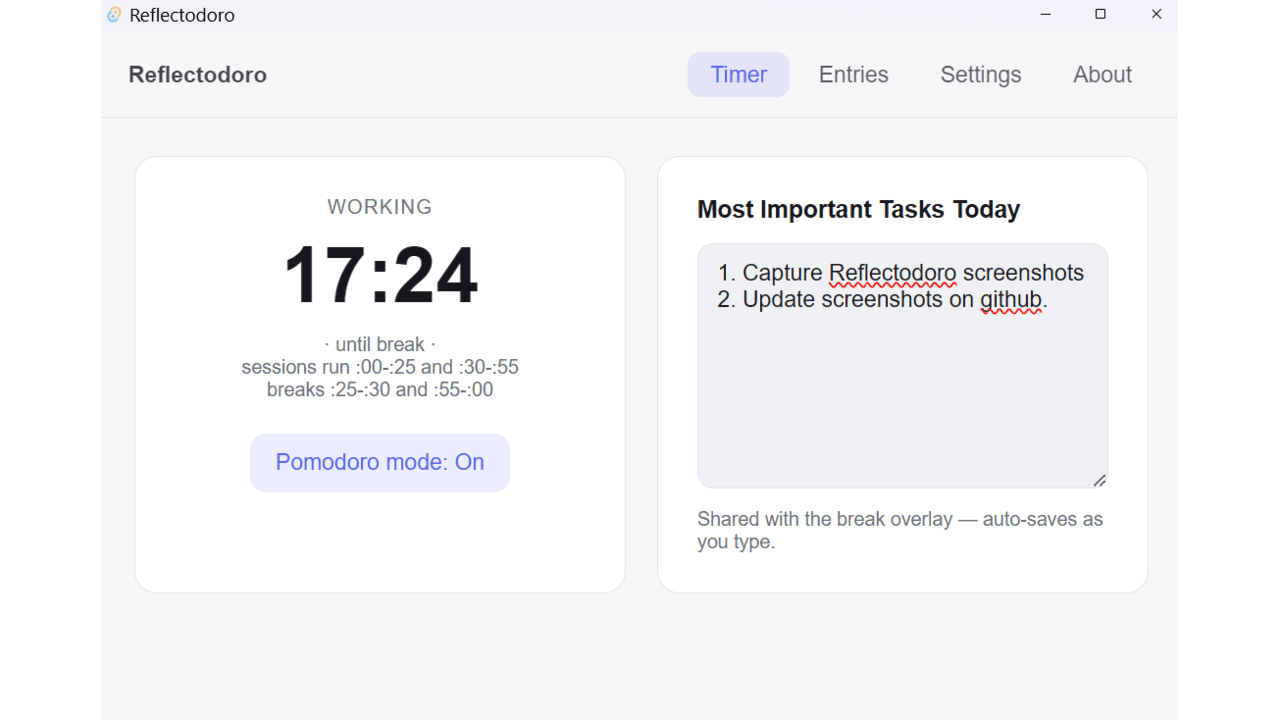
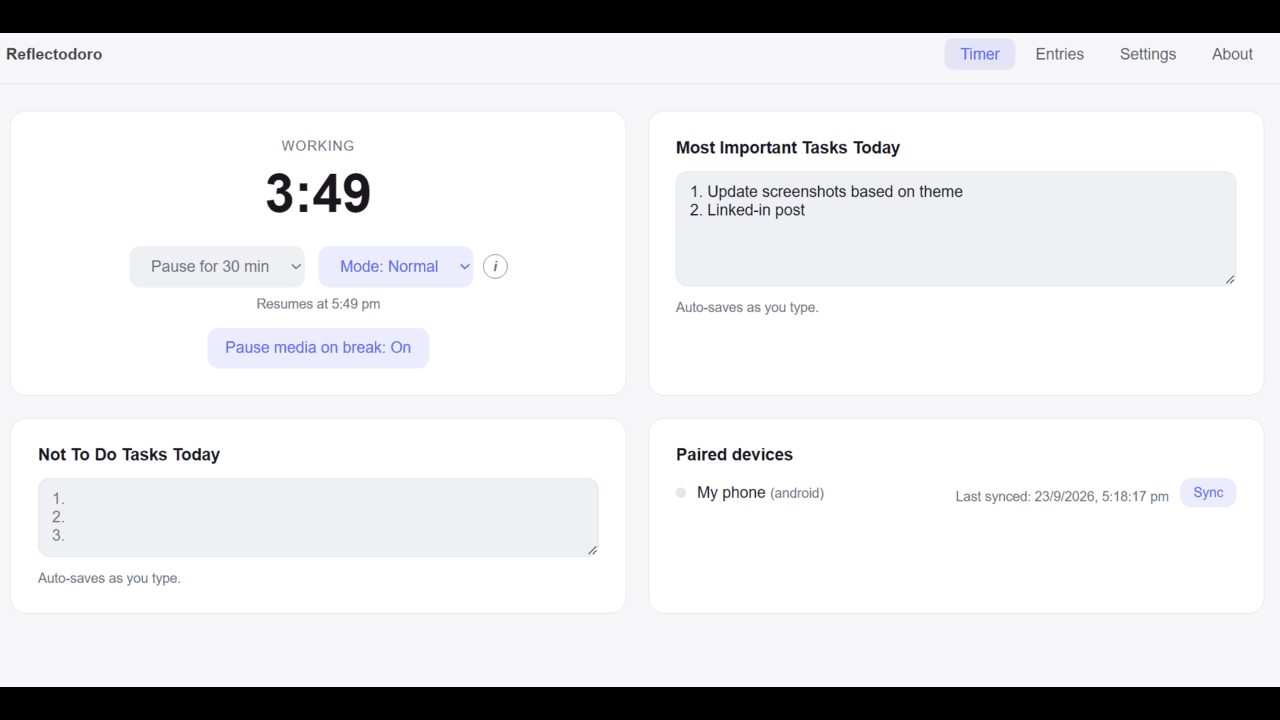
add ss and update as per theme

diff --git a/docs/index.html b/docs/index.html
@@ -970,16 +970,16 @@
             <div class="frame">
               <div class="carousel-track" id="carouselTrack" tabindex="0" role="group" aria-label="Screenshots carousel">
                 <div class="carousel-slide" data-caption="Main window &mdash; wall-clock countdown and Most Important Tasks">
-                  <img class="shot" src="screenshots/SS3.png" alt="Main timer window with wall-clock countdown and Most Important Tasks panel" />
+                  <img class="shot" data-src-light="screenshots/SS3.png" data-src-dark="screenshots/SS3_dark.png" src="screenshots/SS3.png" alt="Main timer window with wall-clock countdown and Most Important Tasks panel" />
                 </div>
                 <div class="carousel-slide" data-caption="Break screen &mdash; reflection required, with the emergency-exit challenge">
-                  <img class="shot" src="screenshots/SS1.png" alt="Break screen requiring a written reflection, with the emergency-exit code challenge" loading="lazy" />
+                  <img class="shot" data-src-light="screenshots/SS1.png" data-src-dark="screenshots/SS1_dark.png" src="screenshots/SS1.png" alt="Break screen requiring a written reflection, with the emergency-exit code challenge" loading="lazy" />
                 </div>
                 <div class="carousel-slide" data-caption="Wellness check-in at the end of the break">
-                  <img class="shot" src="screenshots/SS2.png" alt="Wellness check-in prompt for relaxed eyes, exercise, water, and washroom breaks" loading="lazy" />
+                  <img class="shot" data-src-light="screenshots/SS2.png" data-src-dark="screenshots/SS2_dark.png" src="screenshots/SS2.png" alt="Wellness check-in prompt for relaxed eyes, exercise, water, and washroom breaks" loading="lazy" />
                 </div>
                 <div class="carousel-slide" data-caption="Entries &mdash; daily wellness stats and reflection history">
-                  <img class="shot" src="screenshots/SS4.png" alt="Entries view showing daily wellness stats and reflection history on a calendar" loading="lazy" />
+                  <img class="shot" data-src-light="screenshots/SS4.png" data-src-dark="screenshots/SS4_dark.png" src="screenshots/SS4.png" alt="Entries view showing daily wellness stats and reflection history on a calendar" loading="lazy" />
                 </div>
               </div>
             </div>
@@ -1742,10 +1742,20 @@
         if (set === 'light') return false;
         return mql.matches;
       }
+      function updateScreenshots() {
+        var dark = isDark();
+        var imgs = document.querySelectorAll('.shot[data-src-light]');
+        for (var i = 0; i < imgs.length; i++) {
+          var img = imgs[i];
+          var wanted = dark ? img.getAttribute('data-src-dark') : img.getAttribute('data-src-light');
+          if (wanted && img.getAttribute('src') !== wanted) img.setAttribute('src', wanted);
+        }
+      }
       function paint() {
         icon.innerHTML = isDark() ? '&#9728;' : '&#9789;';
         btn.setAttribute('aria-label', isDark() ? 'Switch to light theme' : 'Switch to dark theme');
         if (metaTheme) metaTheme.setAttribute('content', isDark() ? '#0a0c11' : '#fbfaf9');
+        updateScreenshots();
       }
       btn.addEventListener('click', function () {
         var next = isDark() ? 'light' : 'dark';
